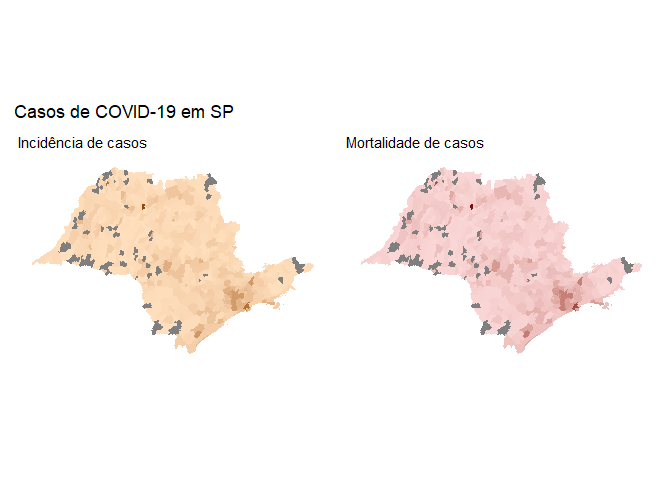
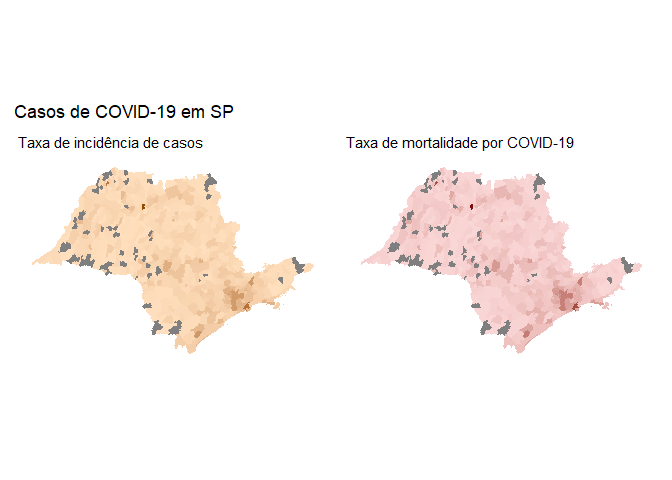
Nova versão do README

Changed region(s): [[0.5, 0.2812, 0.875, 0.3125], [0.0, 0.2812, 0.3125, 0.3125]]

diff --git a/README.md b/README.md
@@ -6,53 +6,63 @@
 ## APRESENTAÇÃO
 
 O presente trabalho visa realizar uma singela análise sobre os índices
-de criminalidade no Estado de São Paulo e compará-los aos números da
+de criminalidade no Estado de São Paulo em conjunto com os números da
 pandemia causada pela COVID-19.\[2\]
 
-Pretendemos verificar as consequências da pandemia (dentre eles, a breve
-quarentena que se verificou no estado) e levantar algumas reflexões
-sobre os impactos da violência. Dentre as perguntas que se pretende
-refletir (mas sem a pretensão de oferecer respostas):
+Pretendemos, partindo do contexto da pandemia (um evento novo, que gerou
+e ainda gera grande comoção), levantar algumas reflexões sobre os
+impactos da violência, que além de velha conhecida no Estado,
+aparentemente já foi normalizada em muitos sentidos. Dentre as perguntas
+que se pretende instigar (mas sem a pretensão de oferecer respostas):
 
 1.  *Qual é, em linhas gerais, a **tendência de evolução** da incidência
-    criminal em SP? Os crimes têm, ao longo das últimas décadas
+    criminal em SP? Os crimes têm, ao longo das últimas duas décadas
     **diminuído** ou **aumentado**?*
 
-2.  *É possível visualizar **tendências** nas diferentes regiões da
+2.  *É possível visualizar **tendências** diferentes nas regiões da
     cidade*?
 
 3.  *Como foi o comportamento dessas tendências **durante os meses em
     que a quarentena** em SP foi mais intensa*? *Houve **padrão** nos
     distintos tipos de crime e nas distintas regiões*?
 
-4.  S*e houve comportamento fora do padrão ou **inesperado**, quais
-    poderiam ser as razões*?
-
 Ao final, queremos instigar a seguinte provocação na leitora e no
-leitor: as projeções e sonhos que temos para um “novo normal” não
-deveriam ter em mente, também, a “pandemia” de violência em nosso
-Estado?
+leitor: Será que a violência em São Paulo é também “pandêmica”, isto é,
+comparável em magnitude ao que vem ocorrendo com a COVID-19? Será que,
+em alguma medida, não vivemos, também, uma ***duradoura*** **e *grave*
+pandemia de violência** no Estado? Que “novo normal” poderemos
+idealizar, sonhar e construir diante do “velho anormal”?
+
+Para isso, antes de prosseguir, responda mentalmente à seguinte questão:
+***temos mais vítimas por COVID-19 ou por crimes violentos***?
 
 ## DADOS UTILIZADOS
 
-Vamos analisar as bases :
+Para tentar orientar as reflexões propostas, vamos analisar as bases :
 
   - `COVID`, contendo [dados coletados e tratados pela equipe da
     Curso-R](https://www.youtube.com/watch?v=ja2AbTFN4yk&ab_channel=Curso-R)
     a partir de webscrap do [site do Ministério da
-    Saúde](http://covid.saude.gov.br). Os dados estão atualizados
-    15/06/2020;
+    Saúde](http://covid.saude.gov.br). Os dados estão atualizados até
+    15/06/2020, inclusive, e nos trazem informações importantes sobre os
+    impactos da pandemia em todo o país.
   - `SSP`, oriundos da mesma Curso-R, com dados extraídos da [Secretaria
     de Segurança Pública de São
     Paulo](http://www.ssp.sp.gov.br/transparenciassp/Consulta.aspx). Os
-    dados são de janeiro de 2002 até abril de 2020.
+    dados são de janeiro de 2002 até abril de 2020, a trazem uma rica
+    série histórica das principais ocorrências criminais no Estado.
+
+Embora cada uma delas possa render inúmeras análises interessantíssimas,
+diante da inquietude das questões apresentadas acima optou-se por olhar
+para elas em conjunto.
 
 ## METODOLOGIA
 
 Ambas as bases, embora pré-processadas e em formato *tidy*, receberam
 tratamento a fim de torná-las comparáveis entre si. O detalhamento dos
 passos fica mais evidente nos comentários nos arquivos nas pastas `/R` e
-`/data-raw`, porém a seguir trazemos os aspectos mais significativos.
+`/data-raw`, porém a seguir trazemos os aspectos mais significativos das
+manipulações realizadas.
 
 ### *Tratamento dos dados da COVID*
 
@@ -61,10 +71,10 @@ variáveis como a quantidade de novos casos, casos recuperados, etc, uma
 vez que o foco da análise se deu sobre dois indicadores:
 
   - **Incidência de casos**: ou seja, a quantidade de casos confirmados
-    por 100 mil habitantes
+    por 100 mil habitantes em um determinado município.
 
   - **Mortalidade** (ou incidência de mortes): a quantidade de óbitos
-    confirmados por 100 mil habitantes
+    confirmados por 100 mil habitantes naquele mesmo município.
 
 |                                                                                                                               Variáveis originais                                                                                                                                |         Variáveis finais          |
 | :------------------------------------------------------------------------------------------------------------------------------------------------------------------------------------------------------------------------------------------------------------------------------: | :-------------------------------: |
@@ -76,21 +86,27 @@ vez que o foco da análise se deu sobre dois indicadores:
 
 A base originalmente continha variáveis em sub-espécies dos crimes
 cometidos, separando por exemplo homicídios de homicídios culposos. Para
-melhor aproveitamento dos dados, considerando os bens jurídicos
-inerentes a cada tipo penal, as hipóteses originais foram dividas em
-quatro grupos:
+melhor aproveitamento dos dados, embora se leve em conta os bens
+jurídicos inerentes a cada tipo penal\[3\], conforme se estrutura do
+[Código Penal
+Brasileiro](http://www.planalto.gov.br/ccivil_03/decreto-lei/del2848compilado.htm),
+os crimes foram agrupados por sua natureza e não necessariamente por sua
+topologia no código.
+
+As hipóteses originais foram dividas em quatro grupos:
 
   - **Crimes Violentos Letais Intencionais (CVLI)**: reunindo homicídios
     dolosos, latrocínio (também chamado de roubo seguido de morte) e
     lesão corporal seguida de morte. Para fins desse estudo, se incluiu
     nesse grupo também os homicídios tentados (que, por definição, são
     intencionais), ainda que o óbito não tenha necessariamente ocorrido.
+    \[4\]
 
   - **Crimes contra o patrimônio**: Reunindo roubos (exceto se
     resultantes em óbito) e furtos (de qualquer tipo).
 
-  - **Outros crimes contra a pessoa**: Reunindo estupros (em todas as
-    modalidades) e lesões corporais. Sabe-se que ambos possuem grande
+  - **Outros crimes contra a pessoa**: Reunindo estupros\[5\] (em todas
+    as modalidades) e lesões corporais. Sabe-se que ambos possuem grande
     diferença quanto aos contextos criminológicos em que ocorrem, porém
     apenas e exclusivamente para fins metodológicos fez sentido
     agrupá-los aquo.
@@ -120,31 +136,39 @@ medidas, adotou-se os seguintes padrões:
 
   - Como as bases possuiam recortes temporais distintos, os dados de
     segurança da `SSP`foram *projetados até o final do an*o,
-    considerando as tendências até abril/2020.
+    considerando as tendências até abril/2020. Ou seja, levando-se em
+    conta os dados do primeiro quadrimestre de 2020, procurou projetar
+    os números até o fim do ano.
 
   - As **regiões** da Segurança Pública (base `SSP`) foram aproveitadas
     também para os dados da pandemia (base `COVID`). Assim, os dados
-    foram apresentados considerando as mesmas 12 regiões.
+    foram apresentados considerando as mesmas 12 regiões, recebendo na
+    maioria dos casos os nomes de uma das cidades que a representam.
+    Abaixo a visualização geo-espacial de cada uma delas:
 
 ![](README_files/figure-gfm/mapa_regioes-1.png)<!-- -->
 
 ## ESTADO DE SÃO PAULO E A COVID-19
 
 Como é sabido, o Brasil chegou rapidamente aos países com mais casos no
-mundo. Ao contrário do que se disse, esse número não se deu unicamente
-em razão da grandeza de sua população.
+mundo, mesmo havendo reconhecida subnotificação e negacionismo por parte
+de autoridades públicas. Não iremos adentrar nas razões (e nas omissões)
+que nos trouxeram até aqui, porém é importante ressaltar que a gravidade
+da pandemia em nosso país é sem precedentes recentes.
 
-Por outro lado, o Estado de São Paulo foi por muito tempo o “epicentro”
-da pandemia no país. Além de sua alta população, possivelmente houve
-influência da sua alta urbanização dentre muitos outros fatores.
-
-Válido, portanto, retomar um pouco dos impactos da COVID no país
+Vejamos:
 
 ![](README_files/figure-gfm/graficos_e_mapas-covid-1.png)<!-- -->![](README_files/figure-gfm/graficos_e_mapas-covid-2.png)<!-- -->![](README_files/figure-gfm/graficos_e_mapas-covid-3.png)<!-- -->
 
 ### Incidência de casos e Mortalidade em SP
 
-Podemos ver que
+Por outro lado, o Estado de São Paulo foi por muito tempo o “epicentro”
+da pandemia no país, na medida em que - se imagina - que foram onde se
+originaram os primeiros casos, irradiando o contágio comunitário para
+outros cantos do país.
+
+Oportuno, portanto, olhar um pouco dos indicadores da COVID-19 no
+Estado:
 
 |        Região         | Tx. Incidência | Tx. Mortalidade |
 | :-------------------: | :------------: | :-------------: |
@@ -163,21 +187,38 @@ Podemos ver que
 
 ![](README_files/figure-gfm/tabela_mapa_covid_incidencia_mortalidade-1.png)<!-- -->
 
+Fica claro que, a despeito das diferenças regionais de intensidade, a
+pandemia teve (e ainda tem) grande impacto em todo o território.
+
 ## O CRIME E O ESTADO DE SÃO PAULO
 
 ### Tendências
 
-Dizer alguma coisa que a tendência é de queda
+Vamos observar a evolução de ocorrências criminais registradas de 2002
+até 2020.
 
 ![](README_files/figure-gfm/grafico_tendencia_crime-1.png)<!-- -->
 
-São Paulo, crimes, bla bla bla Tendência de queda por diversos fatores
+É bastante evidente que há uma constante queda geral no número de
+ocorrências nos últimos anos, sobretudo a partir da segunda metade da
+década passada. Existem diversos fatores, por certo, que explicam essa
+queda, todos eles fora de nossos objetivos aqui.
 
-![](README_files/figure-gfm/grafico_crimes_evolucao-1.png)<!-- -->
+No que pese a explicação das razões que levam a essa queda estejam fora
+de nosso objetivo, faz sentido aqui olhar para cada uma das quatro
+categorias individualmente, afim de verificar se esses números se
+refletiram em todas elas.
 
 ### Criminalidade durante a pandemia
 
-#### Quarentena
+Por outro lado, a despeito de existir uma tendência de redução do
+cômputo de casos em números gerais, ao olhar para o comportamento das
+diversas categorias podemos perceber diferenças entre elas:
+
+![](README_files/figure-gfm/grafico_crimes_evolucao-1.png)<!-- -->
+
+O gráfico pode ser complementado pela tabela abaixo, focada nos últimos
+5 anos:
 
 |     Crime      |  2015   |  2016   |  2017   |  2018   |  2019   |  2020   |
 | :------------: | :-----: | :-----: | :-----: | :-----: | :-----: | :-----: |
@@ -186,28 +227,56 @@ São Paulo, crimes, bla bla bla Tendência de queda por diversos fatores
 | contra\_pessoa |  325,3  |  327,6  |  323,4  |  306,1  |  312,5  |  262,5  |
 |   acidentes    |  264,6  |  231,5  |  212,0  |  182,8  |  179,8  |  134,2  |
 
-Durou em especial nos primeiros meses
+## Perguntas importantes (e sem respostas)
 
-Qual impacto teve nos índices?
+A queda generalizada nos registros criminais chama parece fazer sentido
+se considerada a tendência geral e já há alguns anos. Porém, o fato de
+não haver a mesma redução e - pior - um ligeiro aumento nos CVLI traz
+questões importantes.
 
-#### Perguntas importantes
+#### Houve redução real nas ocorrências ou, meramente, aumento na subnotificação de crimes?
 
-Houve diminuição ou aumento dos crimes?
+Por um lado, o fato de haver menor número de pessoas circulando parece
+justificar uma menor incidência de crimes contra o patrimônio, acidentes
+e crimes contra a pessoa. Por outro lado, os CVLI têm como peculiaridade
+a baixa taxa de subnotificação por natureza - afinal, a morte de uma
+pessoa dificilmente passa sem ser notada. Mas o que explicaria o
+aumento?
 
-Houve diminuição das ocorrências de crimes contra o patrimônio?
+Além disso, é preciso notar que parte importante dos equipamentos
+públicos - delegacias de polícia inclusas - fecharam as portas total ou
+parcialmente durante os meses iniciais da pandemia. Isso pode ter levado
+a um desencorajamento do reporte de crimes, ainda que parte relevante
+deles seja passível de notificação mediante Boletim de Ocorrência
+eletrônico.
 
-Lesões corporais e estupros - como foram? pessoas em casa
+Ainda, se essa hipótese - a mera subnotificação - se mostrar verdadeira,
+um alarme deveria soar perante as autoridades públicas: é plausível
+imaginar que mais crimes de estupro e, pior, estupro de vulnerável,
+tenham aumentado ainda mais durante o período de isolamento. Sabe-se, há
+tempos, que [parte relevante desses casos ocorre em ambientes
+domésticos](http://g1.globo.com/bom-dia-brasil/noticia/2014/08/quase-70-dos-estupros-acontecem-em-ambientes-domesticos-diz-policia.html).
 
-Acidentes de carro - diminuição da circulação, fechamento dos bares,
-lojas de conveniência, etc
+#### Mortes decorrentes de intervenção policial?
 
-Fechamento das delegacias na pandemia\!\!\!
+Um fato digno de nota que coincidiu com os primeiros meses da pandemia
+foi a comoção em torno da morte do afroamericano **George Floyd**, que
+deu início a manifestações em diversos pontos do mundo. No Brasil, o
+movimento negro há anos denuncia os grandes números de casos de mortes
+causadas pela polícia, em contextos das chamadas “intervenções
+policiais”.
 
-Mas e os CVLI? Qual o impacto? Esses tendem a ter menos subnotificação
+Foge do escopo desse estudo nos aprofundarmos nesse tema. Inclusive, o
+banco SSP não continha os dados para essas ocorrências e,
+consequentemente, ela não foi computada. O que ocorre, por outro lado, é
+que [estudos apontam o crescimento desses números durante o ano
+de 2020](https://www1.folha.uol.com.br/cotidiano/2020/07/letalidade-policial-bate-recorde-e-homicidios-durante-a-pandemia-em-sp.shtml),
+independnetemente de haver correlação (e não causalidade) com a
+pandemia.
 
-Levantar o ponto da letalidade policial
+#### Todas as regiões tiveram comportamento semelhante?
 
-#### Regiões que tiveram aumento
+É importante
 
 ![](README_files/figure-gfm/grafico_crimes_SP-1.gif)<!-- -->
 
@@ -964,3 +1033,26 @@ para estudos futuros e mais aprofundados:
 2.  Ele se dá no contexto de conclusão do [Curso de R para Ciência de
     Dados](https://www.curso-r.com/cursos/r4ds-2/) e, portanto, não tem
     grandes pretensões científicas.
+
+3.  De acordo com as teorias clássicas do Direito Penal. Grosso modo,
+    poderia se dizer que o bem juridico penal é aquele valor protegido
+    pelo direito penal em cada um dos crimes. Essa ideia permeia todo o
+    Código Penal. Por exemplo, o homicídio (Art. 121) se encontra no
+    título I, “*Dos Crimes contra a pessoa*”, e, neste, no Capítulo I,
+    “*Dos crimes contra a vida*”.
+
+4.  A classificação em CVLI é seguida pela SENASP-MJ e dá mais ênfase ao
+    resultado (vulneração da vida) do que na conceituação jurídica dos
+    atos (na prática, isso permite tratar de forma semelhante, p. ex., o
+    homicídio e o roubo seguido de morte, que, a rigor, é considerado um
+    crime contra o patrimônio).
+
+5.  A rigor, o crime de estupro está previsto no artigo 217 do Código
+    Penal, em título que hoje se chama “Crime contra a dignidade
+    sexual”. É preciso levar em conta, porém, que originalmente essa
+    parte do cógido era denominada “Crimes contra os costumes”, o que
+    representa uma visão antiquada - e inadequada - do tema. Entende-se
+    aqui que sua natureza se aproxima muito mais de crimes contra a
+    integridade física e emocional, de modo que poderia perfeitamente
+    ocupar o mesmo capítulo do código inerente aos crimes contra a
+    pessoa.
